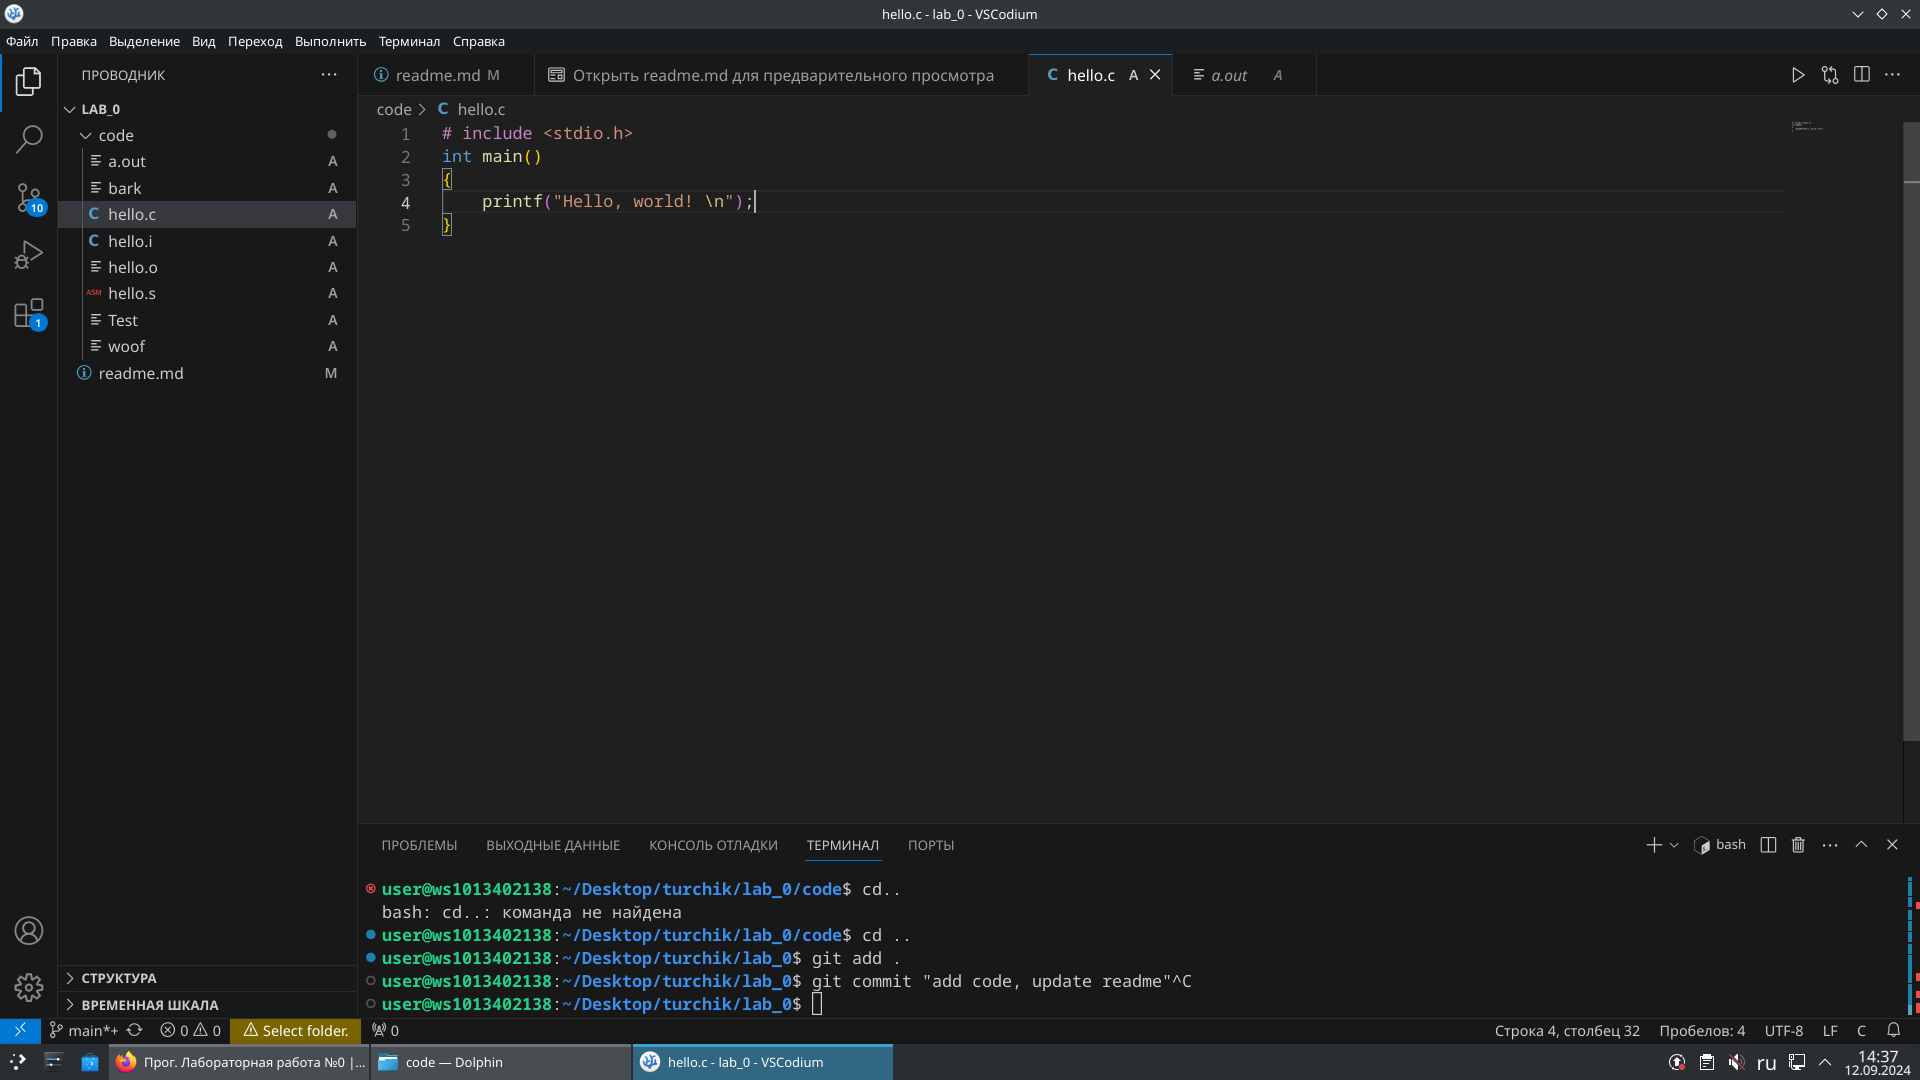
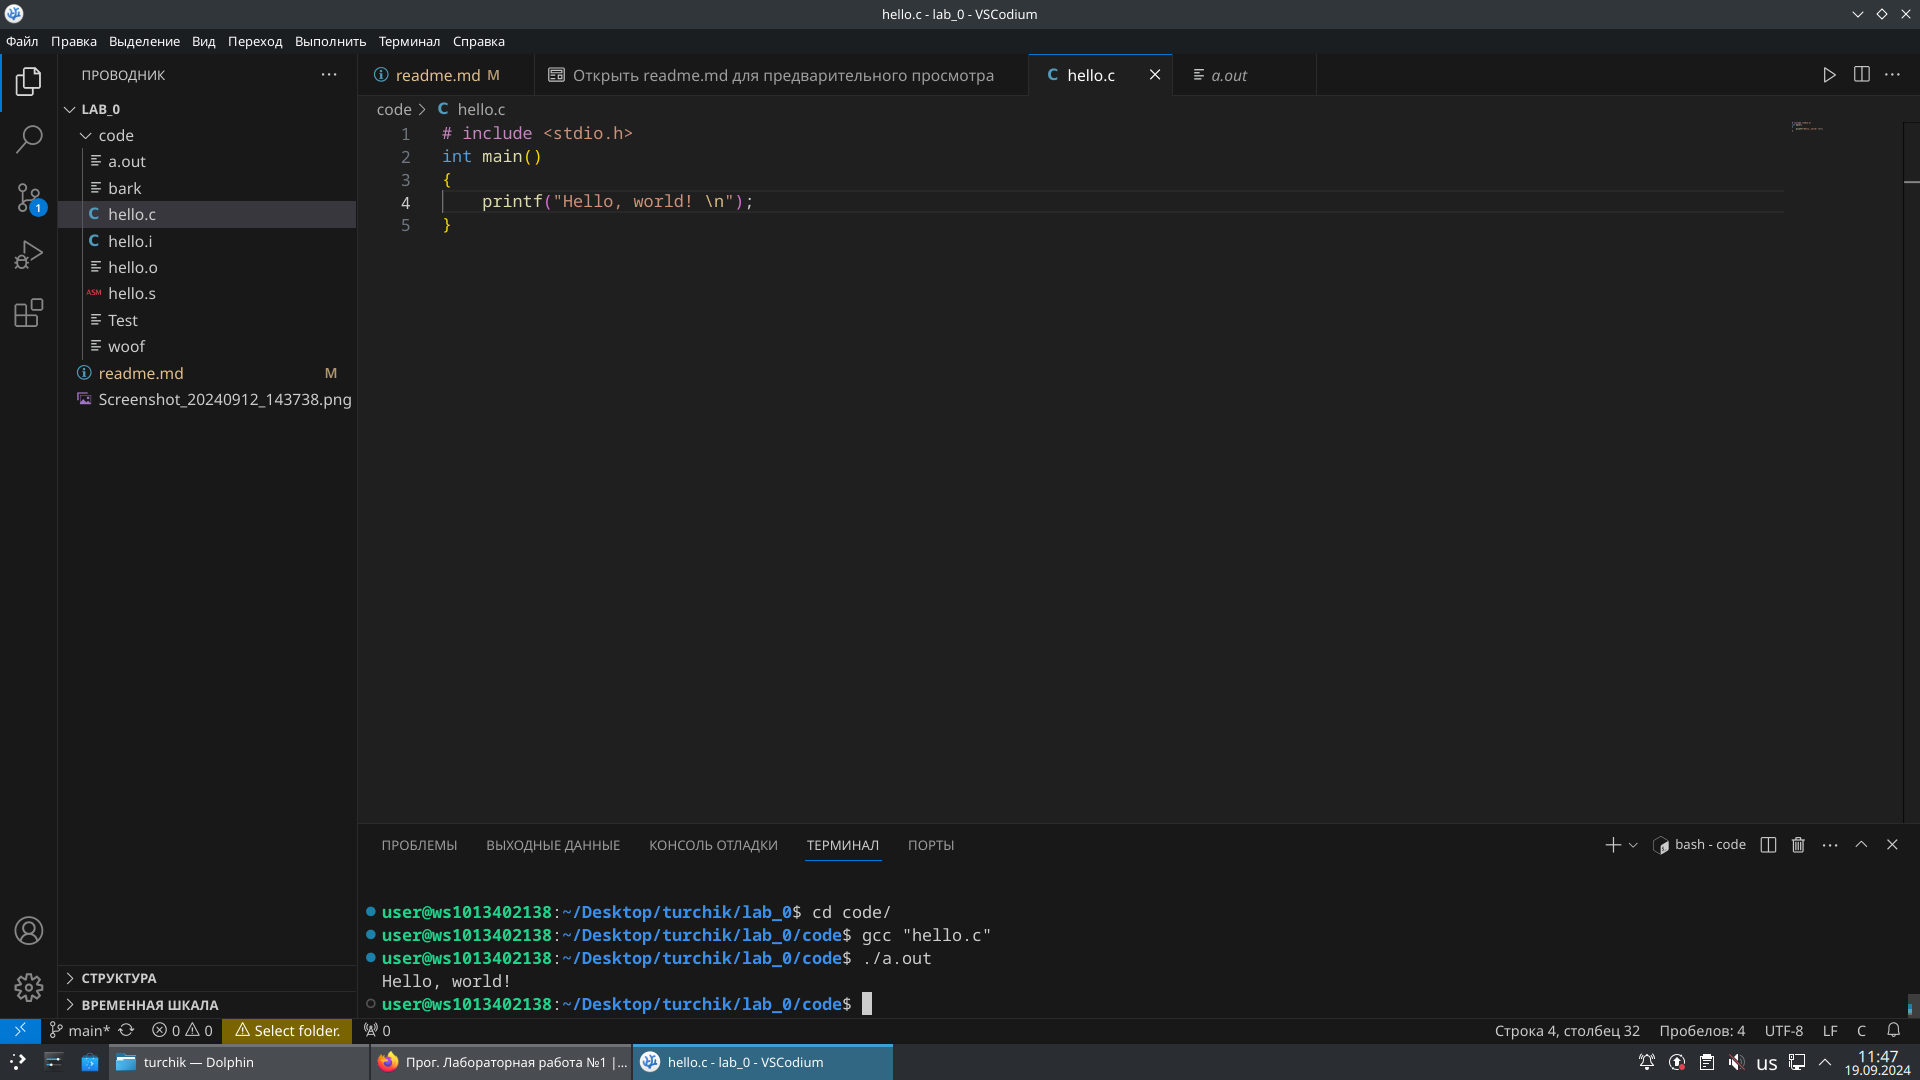
update readme 4

diff --git a/readme.md b/readme.md
@@ -3,33 +3,42 @@
 >'...' - вставить указанное в кавычках без кавычек;   
 "..." - вставить указанное в кавычках в двойных кавычках
 1. Создать репозиторий на сайте github и папку на компьютере с *одинаковым* названием
-2. Инициализировать папку в репозиторий командой **git init**
-3. Добавить файлы к отслеживанию командой **git add 'name'**
-4. Сделать первый коммит комнадой **git commit -m "name"**
-5. Добавить ветку командой **git branch -M main**
-6. Связать репозиторий на github и репозиторий на компьютере командой **git remote add origin 'url'**
-7. (опционально) Проверить пункт выше комнадой **git remote -v**
-8. Обновить состояние файлов в онлайн репозитории командой **git push** (при первом использовании этой комнады она должна выглядеть как **git push -u origin main**)  
+2. Инициализировать папку в репозиторий командой `git init`
+3. Добавить файлы к отслеживанию командой `git add 'name'`
+4. Сделать первый коммит комнадой `git commit -m "name"`
+5. Добавить ветку командой `git branch -M main`
+6. Связать репозиторий на github и репозиторий на компьютере командой `git remote add origin 'url'`
+7. (опционально) Проверить пункт выше комнадой `**git remote -v**`
+8. Обновить состояние файлов в онлайн репозитории командой `git push` (при первом использовании этой комнады она должна выглядеть как `git push -u origin main`) 
 >***После использования команды push следует повторять шаги 3 и 4***  
 >
 ### Шпаргалка по терминалу
-**pwd** - путь к файлу  
-**ls** - доступные файлы  
-**ls -a** - невидимые файлы  
-**cd** - перейти в корень  
-**cd ..** - перейти на уровень выше  
-**cd "name"** - перейти в указанную папку  
-**mkdir "name"** - создать папку  
-**rm -r "name"** - удалить папку  
-**rm "name"** - удалить файл  
-**touch "name"** - создать файл  
+`pwd` - путь к файлу  
+`ls` - доступные файлы  
+`ls -a` - невидимые файлы  
+`cd` - перейти в корень  
+`cd ..` - перейти на уровень выше  
+`cd "name"` - перейти в указанную папку  
+`mkdir "name"` - создать папку  
+`rm -r "name"` - удалить папку  
+`rm "name"` - удалить файл  
+`touch "name"` - создать файл  
 *(При использовании стрелочки вверх/вниз можно использовать недавно использованные команды)*  
-**gcc "code name"** - компиляция кода  
-**gcc "code name"-o "name"** - компиляция кода с выходным файлом не a.out, а с другим именем  
-**-E** - залезает в файл с кодом (при компиляции) и вставляет туда включённую(include) библиотеку  
-**-S / -C** - создают выходной файл (при компиляции), с другим расширением и на другом языке(ассемблер и машинный код)  
+`gcc "code name"` - компиляция кода  
+`gcc "code name"-o "name"` - компиляция кода с выходным файлом не a.out, а с другим именем  
+`-E` - залезает в файл с кодом (при компиляции) и вставляет туда включённую(include) библиотеку  
+`-S / -C` - создают выходной файл (при компиляции), с другим расширением и на другом языке(ассемблер и машинный код)  
 ## Этапы компиляции:
 1. Написание кода
-
+```
+# include <stdio.h>
+int main()
+{
+    printf("Hello, world! \n");
+}
+```
+2. Компиляция кода с помощью `gcc "code name"`
+3. Результат:
+![Alt text](https://ibb.co/mTRrN0C "well")
 ## Источники:
 [Markdown](https://doka.guide/tools/markdown/)
